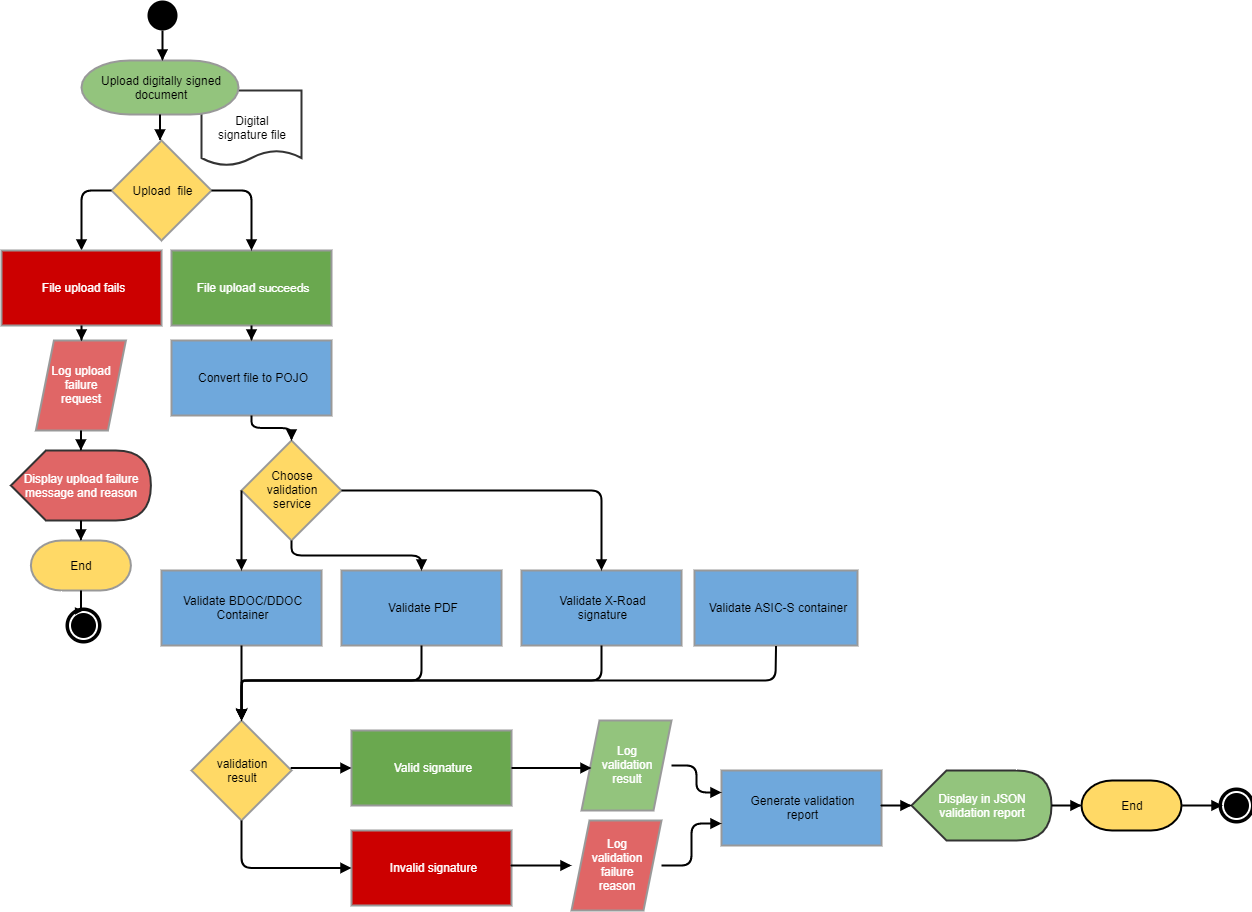
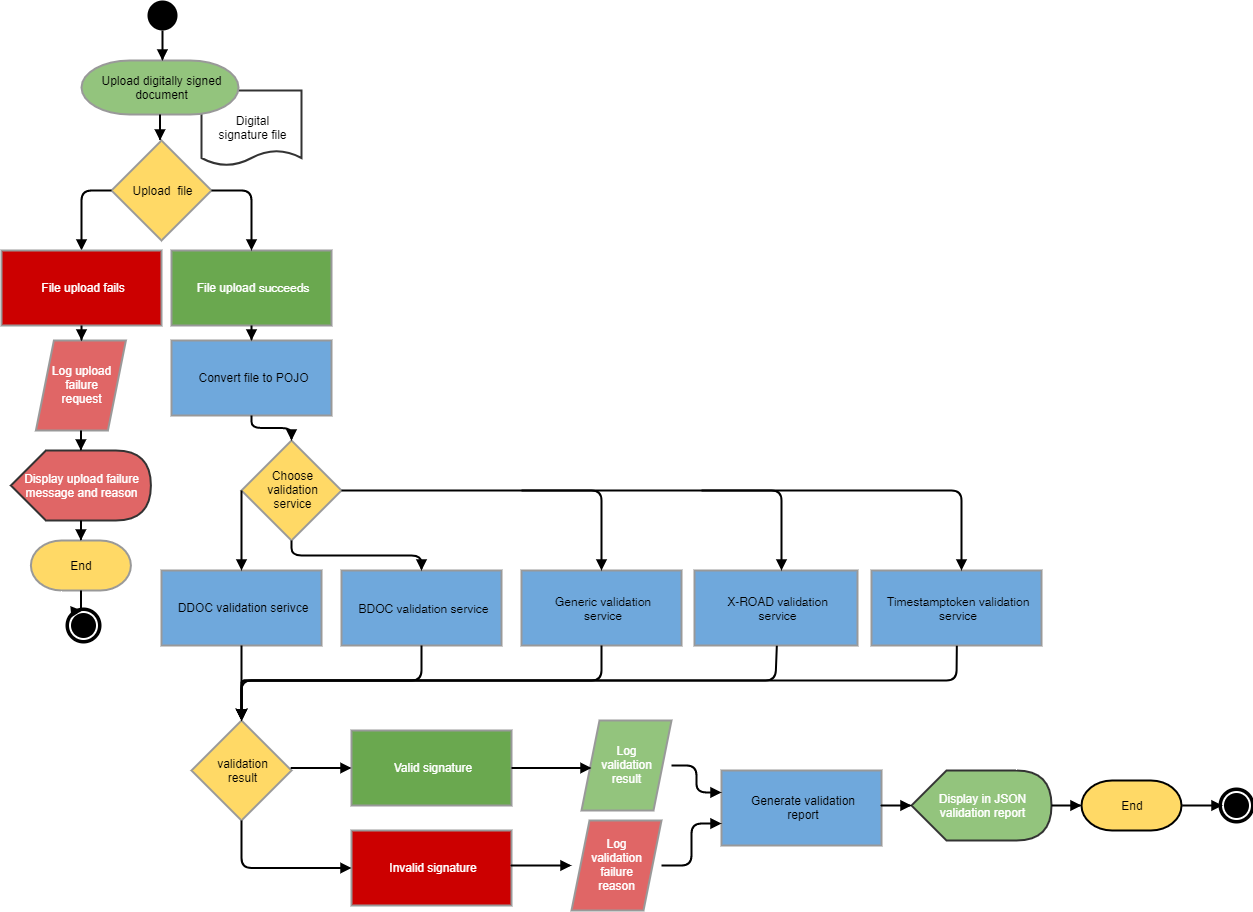
SIVARIA2-101 SIVARIA2-138 fix urls and drawings.

diff --git a/docs/siva2/test_plan.md b/docs/siva2/test_plan.md
@@ -1,4 +1,4 @@
-<!--# SiVa Test Plan-->
+
 
 ## Test execution
 
@@ -53,7 +53,7 @@ The testing of the SiVa web service is divided into sections based on the softwa
   * PDF signature validation
   * X-Road ASIC-E signature validation
 
-The goal is to focus testing on functionalities implemented in SiVa web service application. Functionalities provided by [Validation libraries](/siva/overview/#validation-libraries) are not explicitly tested.
+The goal is to focus testing on functionalities implemented in SiVa web service application. Functionalities provided by [Validation libraries](../siva2/overview/#validation-libraries) are not explicitly tested.
 
 In addition SiVa Sample Application is tested. These tests are carried out manually.
 
@@ -78,8 +78,8 @@ In all of the negative cases correctness of returned error message is checked.
 
 Specific test cases and input files can be found in:
 
-  * [ValidationRequestIT.java](/siva/appendix/test_cases/#validationrequestitjava)
-  * [DocumentFormatIT.java](/siva/appendix/test_cases/#documentformatitjava)
+  * [ValidationRequestIT.java](../siva2/appendix/test_cases/#validationrequestit)
+  * [DocumentFormatIT.java](../siva2/appendix/test_cases/#documentformatitjava)
 
 ### Get Data Files request tests
 
@@ -97,7 +97,7 @@ In all of the negative cases correctness of returned error message is checked.
 
 Specific test cases and input files can be found in:
 
-  * [GetDataFileRequestIT.java](/siva/appendix/test_cases/#getdatafilerequestitjava)
+  * [GetDataFileRequestIT.java](../siva2/appendix/test_cases/#getdatafilerequestitjava)
 
 ### Validation report and report siganture tests
 
@@ -113,9 +113,9 @@ Following areas are tested on output (Validation Report):
 
 Specific test cases and input files can be found in:
 
-  * [ValidationReportValueVerificationIT.java](/siva/appendix/test_cases/#validationReportValueVerificationitjava)
-  * [ReportSignatureManualIT.java](/siva/appendix/test_cases/#reportSignatureManualitjava)
-  * [DetailedReportValidationManualIT.java](/siva/appendix/test_cases/#detailedReportValidationManualitjava)
+  * [ValidationReportValueVerificationIT.java](../siva2/appendix/test_cases/#validationReportValueVerificationitjava)
+  * [ReportSignatureManualIT.java](../siva2/appendix/test_cases/#reportSignatureManualitjava)
+  * [DetailedReportValidationManualIT.java](../siva2/appendix/test_cases/#detailedReportValidationManualitjava)
   
 ## Testing of SOAP API
 
@@ -139,7 +139,7 @@ In all of the negative cases correctness of returned error message is checked.
 
 Specific test cases and input files can be found in:
 
-  * [SoapValidationRequestIT.java](/siva/appendix/test_cases/#soapvalidationrequestitjava)
+  * [SoapValidationRequestIT.java](../siva2/appendix/test_cases/#soapvalidationrequestitjava)
 
 ### Get Data Files request tests
 
@@ -157,7 +157,7 @@ In all of the negative cases correctness of returned error message is checked.
 
 Specific test cases and input files can be found in:
 
-  * [SoapGetDataFileRequestIT.java](/siva/appendix/test_cases/#soapgetdatafilerequestitjava)
+  * [SoapGetDataFileRequestIT.java](../siva2/appendix/test_cases/#soapgetdatafilerequestitjava)
 
 ### Validation report tests
 
@@ -171,7 +171,7 @@ Following areas are tested on output (Validation Report):
 
 Specific test cases and input files can be found in:
 
-  * [SoapValidationReportValueIT.java](/siva/appendix/test_cases/#soapvalidationreportvalueitjava)
+  * [SoapValidationReportValueIT.java](../siva2/appendix/test_cases/#soapvalidationreportvalueitjava)
 
 ### Get Data Files report tests
 
@@ -183,7 +183,7 @@ Following areas are tested on output:
 
 Specific test cases and input files can be found in:
 
-  * [SoapGetDataFileReportIT.java](/siva/appendix/test_cases/#soapgetdatafilereportitjava)
+  * [SoapGetDataFileReportIT.java](../siva2/appendix/test_cases/#soapgetdatafilereportitjava)
 
 ## Testing of DDOC container signature validation
 
@@ -198,9 +198,9 @@ The testing of DDOC signatures consists of following main cases:
 
 Specific test cases and input files can be found in:
 
-  * [DdocValidationFailIT.java](/siva/appendix/test_cases/#ddocvalidationfailitjava)
-  * [DdocValidationPassIT.java](/siva/appendix/test_cases/#ddocvalidationpassitjava)
-  * [LargeFileIT.java](/siva/appendix/test_cases/#largefileitjava)
+  * [DdocValidationFailIT.java](../siva2/appendix/test_cases/#ddocvalidationfailitjava)
+  * [DdocValidationPassIT.java](../siva2/appendix/test_cases/#ddocvalidationpassitjava)
+  * [LargeFileIT.java](../siva2/appendix/test_cases/#largefileitjava)
 
 **What is not tested:**
 
@@ -219,9 +219,9 @@ The testing of BDOC container signatures consists of following main cases:
 
 Specific test cases and input files can be found in:
 
-  * [BdocValidationFailIT.java](/siva/appendix/test_cases/#bdocvalidationfailitjava)
-  * [BdocValidationPassIT.java](/siva/appendix/test_cases/#bdocvalidationpassitjava)
-  * [LargeFileIT.java](/siva/appendix/test_cases/#largefileitjava)
+  * [BdocValidationFailIT.java](../siva2/appendix/test_cases/#bdocvalidationfailitjava)
+  * [BdocValidationPassIT.java](../siva2/appendix/test_cases/#bdocvalidationpassitjava)
+  * [LargeFileIT.java](../siva2/appendix/test_cases/#largefileitjava)
 
 **What is not tested:**
 
@@ -239,8 +239,8 @@ The testing of ASIC-S container signatures consists of following main cases:
 
 Specific test cases and input files can be found in:
 
-  * [AsicsValidationFailIT.java](/siva/appendix/test_cases/#bdocvalidationfailitjava)
-  * [AsicsValidationPassIT.java](/siva/appendix/test_cases/#bdocvalidationpassitjava)
+  * [AsicsValidationFailIT.java](../siva2/appendix/test_cases/#bdocvalidationfailitjava)
+  * [AsicsValidationPassIT.java](../siva2/appendix/test_cases/#bdocvalidationpassitjava)
 
 **What is not tested:**
 
@@ -263,11 +263,11 @@ The testing of PDF signatures consists of following main cases:
 
 Specific test cases and input files can be found in:
 
-  * [PdfBaselineProfileIT.java](/siva/appendix/test_cases/#pdfbaselineprofileitjava)
-  * [PdfSignatureCryptographicAlgorithmIT.java](/siva/appendix/test_cases/#pdfsignaturecryptographicalgorithmitjava)
-  * [PdfValidationFailIT.java](/siva/appendix/test_cases/#pdfvalidationfailitjava)
-  * [PdfValidationPassIT.java](/siva/appendix/test_cases/#pdfvalidationpassitjava)
-  * [LargeFileIT.java](/siva/appendix/test_cases/#largefileitjava)
+  * [PdfBaselineProfileIT.java](../siva2/appendix/test_cases/#pdfbaselineprofileitjava)
+  * [PdfSignatureCryptographicAlgorithmIT.java](../siva/appendix/test_cases/#pdfsignaturecryptographicalgorithmitjava)
+  * [PdfValidationFailIT.java](../siva2/appendix/test_cases/#pdfvalidationfailitjava)
+  * [PdfValidationPassIT.java](../siva2/appendix/test_cases/#pdfvalidationpassitjava)
+  * [LargeFileIT.java](../siva2/appendix/test_cases/#largefileitjava)
 
 ## Testing of X-Road ASIC-E container signature validation
 
@@ -280,8 +280,8 @@ The testing of ASICE signatures consists of following main cases:
 
 Specific test cases and input files can be found in:
 
-  * [XroadValidationPassIT.java](/siva/appendix/test_cases/#xroadvalidationpassitjava)
-  * [XroadValidationFailIT.java](/siva/appendix/test_cases/#xroadvalidationfailitjava)
+  * [XroadValidationPassIT.java](../siva2/appendix/test_cases/#xroadvalidationpassitjava)
+  * [XroadValidationFailIT.java](../siva2/appendix/test_cases/#xroadvalidationfailitjava)
 
 **What is not tested:**
 
@@ -301,7 +301,7 @@ The testing of Data Files Extraction consists of following main cases:
 
 Specific test cases and input files can be found in:
 
-  * [DdocGetDataFilesIT.java](/siva/appendix/test_cases/#ddocgetdatafilesitjava)
+  * [DdocGetDataFilesIT.java](../siva2/appendix/test_cases/#ddocgetdatafilesitjava)
 
 ## Testing of user statistics
 
@@ -323,8 +323,8 @@ As both systems use the same data the testing follows the same principles for bo
   
 Specific test cases and input files can be found in:
 
-  * [StatisticsToGAManualIT.java](/siva/appendix/test_cases/#statisticstogamanualitjava)
-  * [StatisticsToLogsManualIT.java](/siva/appendix/test_cases/#statisticstologsmanualitjava)
+  * [StatisticsToGAManualIT.java](../siva2/appendix/test_cases/#statisticstogamanualitjava)
+  * [StatisticsToLogsManualIT.java](../siva2/appendix/test_cases/#statisticstologsmanualitjava)
   
   **What is not tested:**
 
@@ -342,7 +342,7 @@ Testing of SiVa Sample Application is done manually. The main cases are:
 
 Sample test cases with input files can be found in:
 
-  * [Sample Application Integration Test](/siva/appendix/test_cases/#sample-application-integration-test) 
+  * [Sample Application Integration Test](../siva2/appendix/test_cases/#sample-application-integration-test) 
   
 ## System Test introduction
 
@@ -377,7 +377,7 @@ Tests along with test case descriptions are available for rerun in [github](http
 
 Specific test cases and input files can be found in:
 
-  * [X-Road Soap System Test](/siva/appendix/test_cases/#x-road-soap-system-test)
+  * [X-Road Soap System Test](../siva2/appendix/test_cases/#x-road-soap-system-test)
 
 ## Configuration/administration testing
 
@@ -389,7 +389,7 @@ Following areas are covered:
 
 Specific test cases can be found in:
 
-  * [Configuration System Test](/siva/appendix/test_cases/#configuration-system-test)  
+  * [Configuration System Test](../siva2/appendix/test_cases/#configuration-system-test)  
 
 ## Load Test introduction
 

diff --git a/docs/siva2/use_cases.md b/docs/siva2/use_cases.md
@@ -9,10 +9,11 @@ User of SiVa system provides digitally signed document file in form of
 Base64 encoded string. The validation of file and validation policy
 is handled by validation services underlying libraries.
 
-* In case of PDF file or ASIC-S containers with XAdES and CAdES signatures it will be DSS
-* In case of ASIC-S containers with TimeStampToken it will be Valdiation Services
-* For BDOC and DDOC files we will use DigiDoc4J or when required jDigiDoc
-* And for X-Road signatures we will use X-road signature validation utility
+* In case of DDOC containers with XAdES and CAdES signatures it will be Ddoc Validation Service
+* In case of BDOC containers with XAdES and CAdES signatures it will be Bdoc Validation Service
+* In case of X-ROAD containers with XAdES and CAdES signatures it will be Xroad Validation Service
+* In case of ASIC-S containers with XAdES and CAdES signatures it will be Timestamptoken Validation Service
+* In case of other containers with XAdES and CAdES signatures it will be Generic Validation Service
 
 We will log following failure cases:
 When file upload fails (request started but was not completed successfully)
@@ -46,7 +47,7 @@ as input source.
 
 Validation of SOAP request XML is done in the SiVa web application module.
 Document validation process is described in detail in [Digitally signed document validation process](#digitally-signed-document-validation-process)
-Validation report output id described in [Interface description](/siva/v2/interfaces)
+Validation report output id described in [Interface description](../siva2/interfaces)
 
 ## TSL loading use case
 
